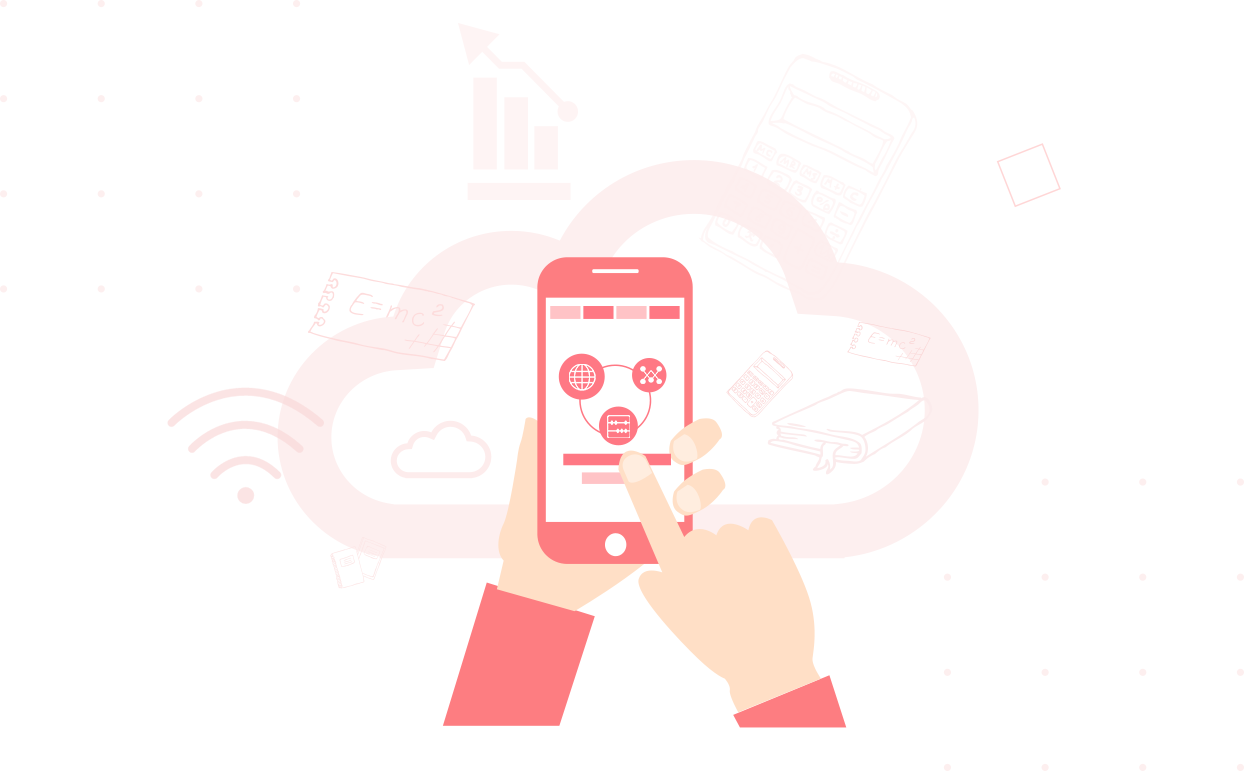
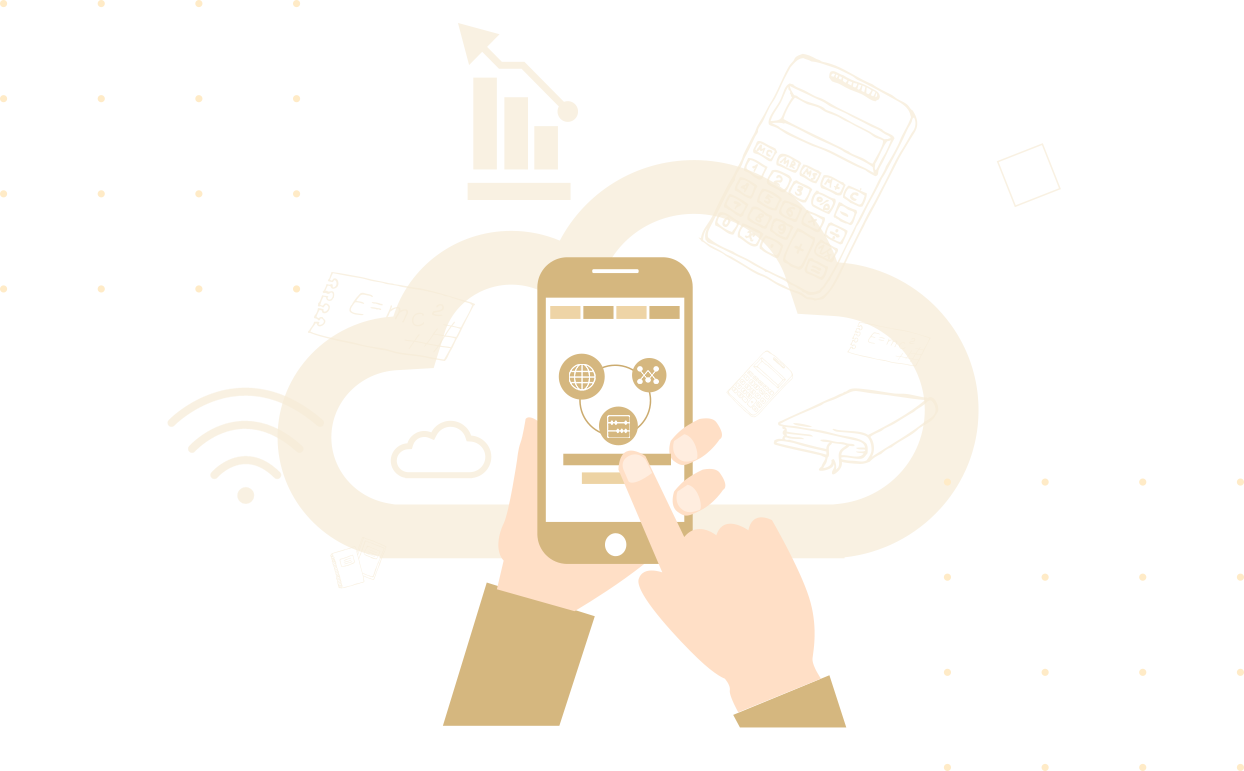
[feat] 修改微信登录页按钮为金色系 related to issue #53

diff --git a/app/view/SubmitButtonWithIcon.js b/app/view/SubmitButtonWithIcon.js
@@ -13,32 +13,44 @@ export default class SubmitButtonWithIcon extends Component {
     };
 
     render() {
-        return (
-            <TouchableWithoutFeedback onPress={this.props.onPress}>
-            <View
-                style={[styles.buttonViewEnabled, this.props.buttonStyle]}>
-                <Image style={[styles.wechart_icon, {justifyContent: 'flex-start'}]}
-                       source={require('../img/wechat.png')}/>
 
-                <Text
-                    style={[styles.loginText]}
-                    allowFontScaling={false}
-                    key={this.props.text}>
-                    {this.props.text}
-                </Text>
-            </View>
-            </TouchableWithoutFeedback>
-        );
+        return this.props.isEnabled ?
+            (
+                <TouchableWithoutFeedback onPress={this.props.onPress}>
+                    <Image source={require('../img/Rectangle.png')}
+                           style={[styles.buttonView, this.props.buttonStyle]}>
+                        <Image style={[styles.wechart_icon, {justifyContent: 'flex-start'}]}
+                               source={require('../img/wechat.png')}/>
+
+                        <Text
+                            style={[styles.loginText]}
+                            allowFontScaling={false}
+                            key={this.props.text}>
+                            {this.props.text}
+                        </Text>
+                    </Image>
+                </TouchableWithoutFeedback>
+            )
+            :
+            (
+                <TouchableWithoutFeedback onPress={this.props.onPress}>
+                    <View style={styles.buttonViewDisabled}>
+                        <Text style={styles.loginTextDisabled}>{this.props.text}</Text>
+                    </View>
+                </TouchableWithoutFeedback>
+            );
     }
 }
 
 const styles = StyleSheet.create({
     buttonView: {
-        backgroundColor: '#e6e6e6',
+        flexDirection: 'row',
+        backgroundColor: 'transparent',
         margin: 0,
-        borderRadius: 22,
+        borderRadius: 2,
         justifyContent: 'center',
         alignSelf: 'center',
+        alignItems: 'center',
         height: px2dp(88),
         width: px2dp(600),
         marginTop: px2dp(45),
@@ -70,16 +82,15 @@ const styles = StyleSheet.create({
     },
 
     loginText: {
-        fontSize: 15,
-        marginLeft: 5,
+        fontSize: 18,
         color: '#FFFFFF',
         marginTop: 10,
+        marginLeft: 2,
         marginBottom: 10,
-        textAlign: 'center',
-        alignSelf: 'center',
+        textAlign: 'center'
     },
 
-    wechart_icon:{
+    wechart_icon: {
         resizeMode: "contain",
         alignSelf: 'center',
     },

diff --git a/app/view/SubmitButton.js b/app/view/SubmitButton.js
@@ -96,8 +96,8 @@ const styles = StyleSheet.create({
     loginTextDisabled: {
         fontSize: 18,
         color: '#CEAF72',
-    marginTop: 10,
-    marginBottom: 10,
-    textAlign: 'center'
+        marginTop: 10,
+        marginBottom: 10,
+        textAlign: 'center'
     },
 });
